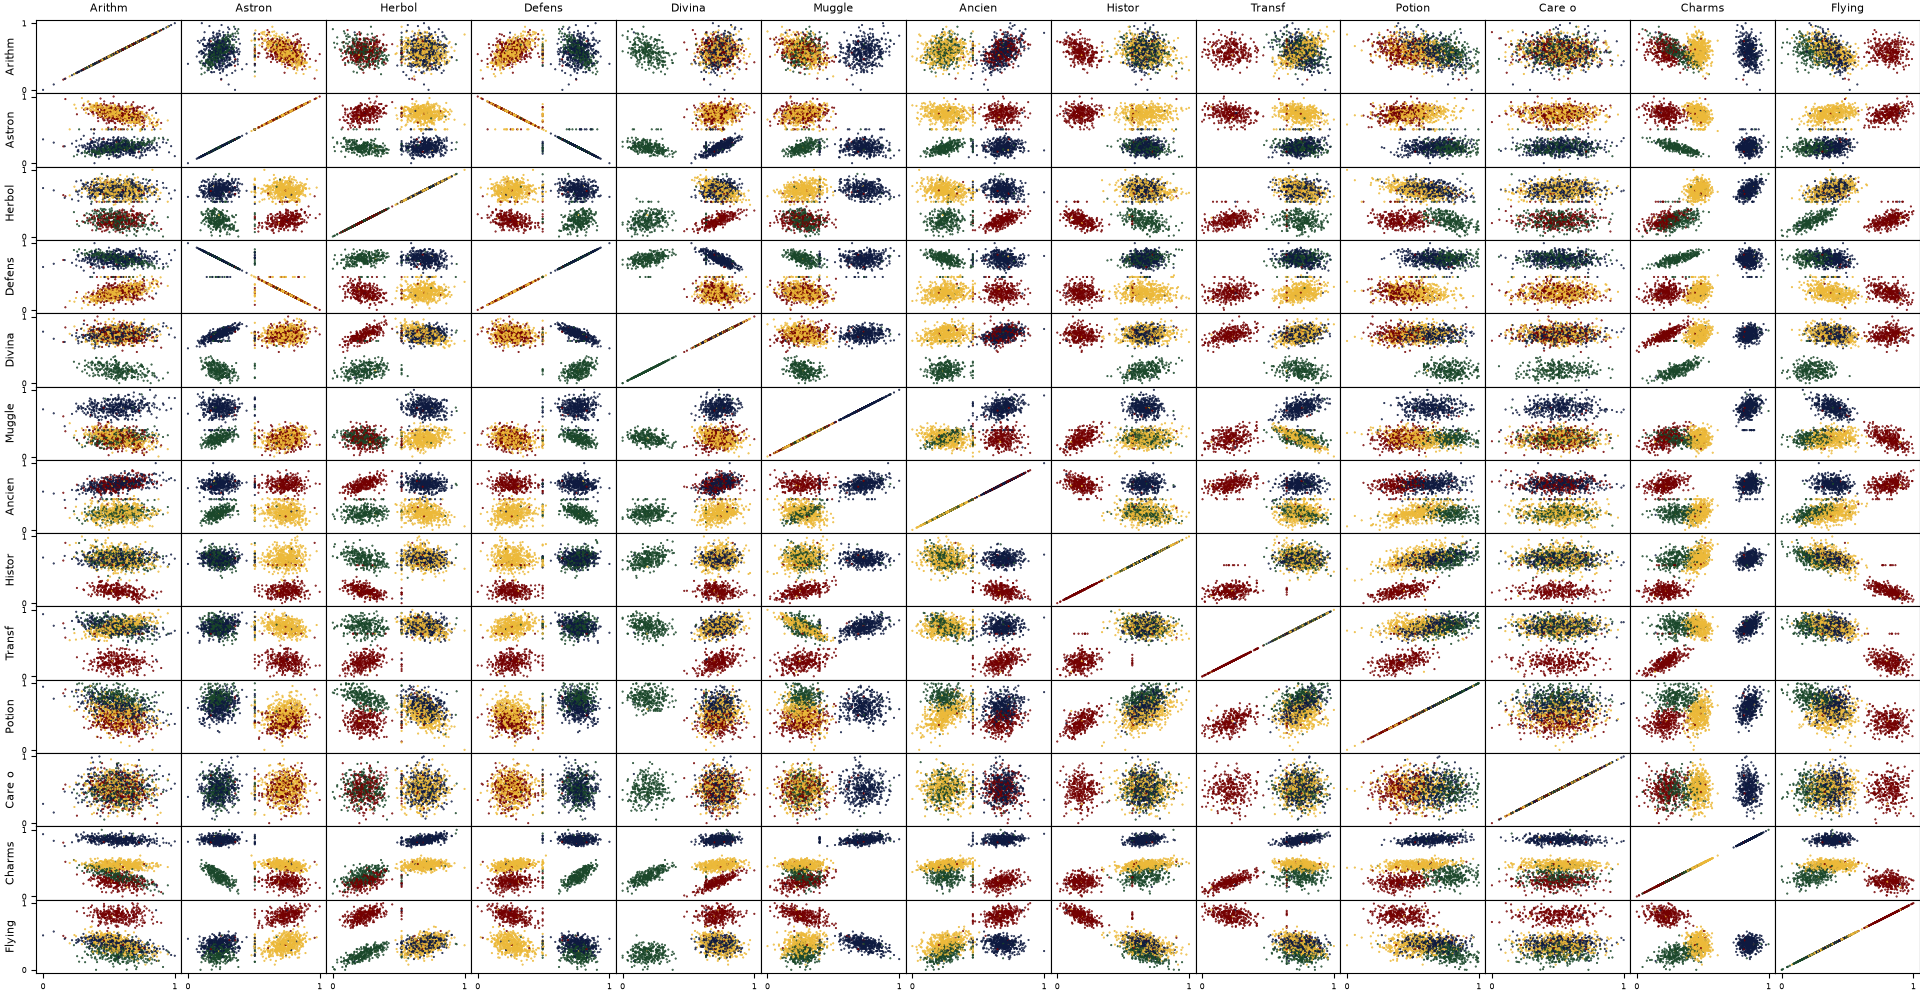
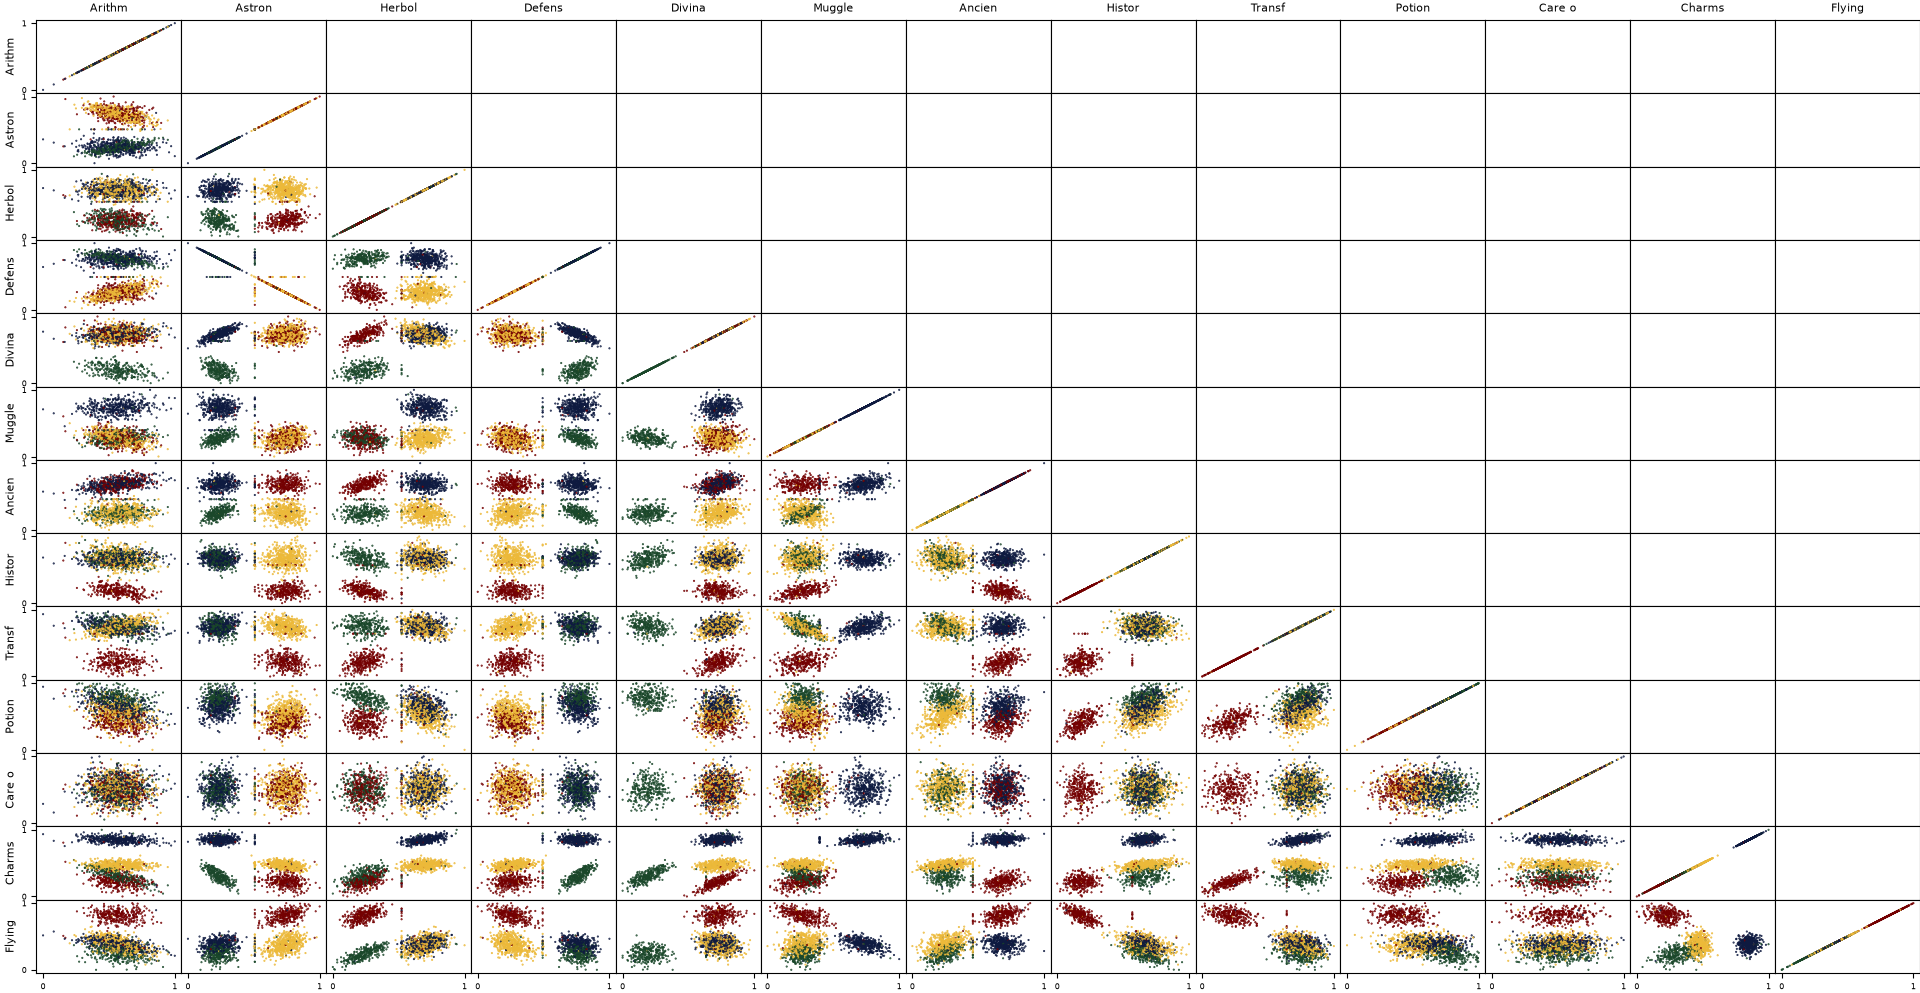
FIX: scatter plots only lower diagonal

Changed region(s): [[0.0938, 0.0312, 1.0, 0.9053], [0.9688, 0.6556, 1.0, 0.6868]]

diff --git a/Visualization/scatter.py b/Visualization/scatter.py
@@ -30,7 +30,8 @@ def main(dataset_path):
         for j in range(n_courses):
             idx = i * n_courses + j
             ax = axes[idx]
-            ax.scatter(df[courses[j]], df[courses[i]], marker='.', s=1, c=colors)
+            if j <= i:
+                ax.scatter(df[courses[j]], df[courses[i]], marker='.', s=1, c=colors)
             if idx % n_courses == 0:
                 ax.set_ylabel(courses[i][0:6], fontsize=8)
                 ax.tick_params(axis='y', labelsize=6)

diff --git a/docs/linear_regression.md b/docs/linear_regression.md
@@ -295,4 +295,43 @@ Gradient descent is the algorithm that actually uses this gradient to find the c
 $$\boldsymbol{\theta_{k+1}} := \boldsymbol{\theta_{k}} - \alpha \nabla_{\boldsymbol{\theta}} J(\boldsymbol{\theta}) :=\boldsymbol{\theta_{k}} - \alpha \cdot \frac{1}{m}\boldsymbol{X}^{T}(\boldsymbol{X}\boldsymbol{\theta} - \boldsymbol{y})$$
 
 ### Stoppping Criteria
-#### Change threshold
+#### Threshold on the change in the cost function.
+This is the classic, most intuitive method. It consists of monitoring the value of the cost function 
+$J(\boldsymbol{\theta})$ after each epoch and measuring how much it decreases relative to the previous epoch:
+
+$$\Delta J < tol$$
+$$\|J(\boldsymbol{\theta}^{(k + 1)}) - J(\boldsymbol{\theta^{k}}) \| < tol $$
+
+As we get closer to the minimum, the cost surface flattens out and the improvements between steps become microscopic.
+Typical tolerance (tol or $\epsilon$) are values such as 1e-4 ($0.0001$) or 1e-6. If the reduction is smaller than tol, it is assumed that we have reached the bottom of the valley and the loop is stopped.
+
+#### Magnitude or norm of the Gradient vector.
+At the global minimum of a convex function, the theoretical derivative is exactly zero ($\nabla J(\boldsymbol{\theta}) = 0$. We compute the Euclidean (L2) norm of the resulting gradient vector:
+```math
+\|\nabla J(\boldsymbol{\theta})\|_2 < Tolerance \\
+\sqrt{\sum_{i=0}^{n} \left(\frac{\partial J(\boldsymbol{\theta})}{\partial \theta_j}\right)^2}< Tolerance \\
+\sqrt{
+    \left(\frac{\partial J(\boldsymbol{\theta})}{\partial \theta_0}\right)^2 +
+    \left(\frac{\partial J(\boldsymbol{\theta})}{\partial \theta_1}\right)^2 +
+    \dots + 
+    \left(\frac{\partial J(\boldsymbol{\theta})}{\partial \theta_n}\right)^2
+    } < Tolerance \\
+```
+
+If $\|\nabla J(\boldsymbol{\theta})\| < tol (for example, tol = 1e-5), it means the slope in every direction is essentially zero, so the algorithm no longer has any direction in which to descend.
+
+#### Parametres displacement
+It consists of measuring the Euclidean distance the weights have moved between two consecutive iterations:
+```math
+\|\Delta\boldsymbol{\theta} \| < Tolerance \\
+\| \boldsymbol{\theta}^{(k + 1)}  - \boldsymbol{\theta}^{k} \| < Tolerance  \\
+\| - \alpha \nabla J({\boldsymbol{\theta}})  \| < Tolerance
+```
+
+Since $\boldsymbol{\theta}^{(k + 1)}  - \boldsymbol{\theta}^{k} = - \alpha \nabla J({\boldsymbol{\theta}})$, this criterion is directly related to the norm of the gradient multiplied by the learning rate $\alpha$. If the parameters barely change position in the search space, continuing to iterate is computationally redundant.
+
+#### Early Stopping with a validation set
+In real Machine Learning projects, training until the training cost is minimized can lead to overfitting. For this reason, the Early Stopping mechanism is used:
+
+Validation set: The loss $J_val$  is computed on a separate dataset that the model does not use to calculate the gradients.
+Patience mechanism: A counter is defined (e.g., patience = 5). If the validation loss does not improve for 5 consecutive epochs, training is interrupted and the weights θ from the best saved epoch are restored.

diff --git a/README.md b/README.md
@@ -148,5 +148,6 @@ This indicates a perfect linear relationship ($r = -1.0$) between the two course
 
 ## Regression
 
-![Mathamatical support for multivariate linear regresion](docs/linear_regression.md)
-![Mathamatical support for multivariate logistic regresion](docs/logisitc_regression.md)
+![Mathematical support for multivariate linear regresion](docs/linear_regression.md)
+
+![Mathematical support for multivariate logistic regresion](docs/logisitc_regression.md)
